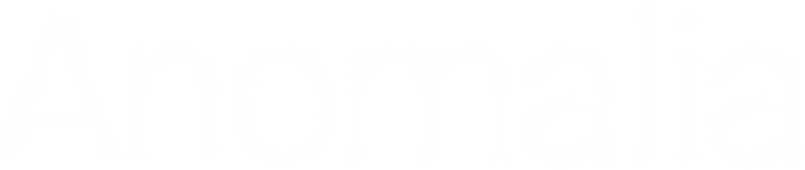
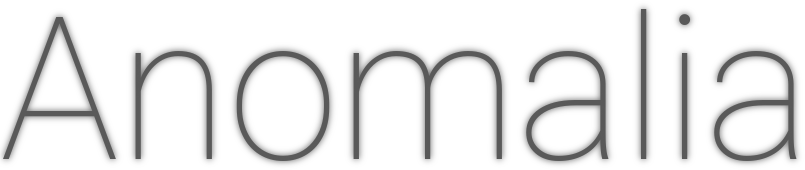
Basic gui menu, hid 3d menu

Changed region(s): [[0.0, 0.0294, 0.8075, 0.9706], [0.8385, 0.2647, 0.9938, 0.9706], [0.8385, 0.0588, 0.8696, 0.1765]]

diff --git a/menu.cpp b/menu.cpp
@@ -10,6 +10,8 @@
 #include "input.h"
 #include "entity.h"
 #include "camera.h"
+#include "uiimage.h"
+#include "uimanager.h"
 #include "entitymanager.h"
 #include "portalmanager.h"
 #include "mirrormanager.h"
@@ -28,6 +30,16 @@ void Menu::Init(App* app) {
 	app->portalManager = std::make_shared<PortalManager>();
 	app->mirrorManager = std::make_shared<MirrorManager>();
 	//app->bellManager = std::make_shared<BellManager>();
+	
+	Ogre::ResourceGroupManager::getSingleton().addResourceLocation("GameData/UI", "FileSystem");
+
+	title = app->uiManager->CreateObject<UiImage>("Title");
+	title->SetImage("title.png");
+	title->SetPosition(-0.5f, 0.3f);
+
+	menu = app->uiManager->CreateObject<UiImage>("Menu");
+	menu->SetImage("menu.png");
+	menu->SetPosition(-0.74f, 0.03f);
 
 	Ogre::ResourceGroupManager::getSingleton().addResourceLocation("GameData/Scenes/menu", "FileSystem");
 	BlenderSceneLoader scnLdr{};

diff --git a/menu.h b/menu.h
@@ -9,6 +9,8 @@ namespace Ogre {
 }
 
 struct App;
+struct UiImage;
+struct UiManager;
 
 class Menu {
 public:
@@ -21,6 +23,11 @@ public:
 private:
 	Ogre::SceneNode* m_node = nullptr;
 	Ogre::ManualObject* m_quad = nullptr;
+
+	UiManager* m_uiManager = nullptr;
+	UiImage* title = nullptr;
+	UiImage* menu = nullptr;
+
 	f32 m_delta = 0.f;
 };
 
